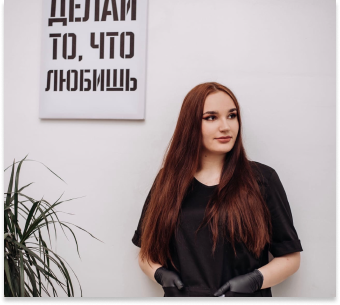
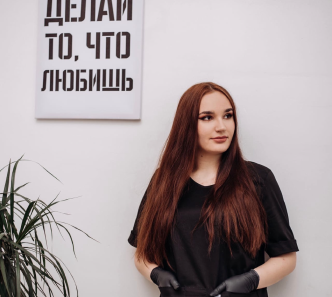
переделал 2 секции

diff --git a/dist/css/style.min.css b/dist/css/style.min.css
@@ -1,1 +1,1 @@
-*{font-family:"Balsamiq Sans",cursive;font-family:"Roboto Mono",monospace;box-sizing:border-box;margin:0;padding:0;border:0}.container{max-width:950px;margin:0 auto}.header{width:100%;min-height:85px;background-color:#e9e9e9}.header__list{padding:3px 10px;position:relative;width:100%;height:85px;display:grid;grid-template-columns:repeat(3,auto);-moz-column-gap:33px;column-gap:33px;align-items:center;justify-content:center}.header__item{position:relative;display:flex;justify-content:center;align-items:center;font-weight:400;font-size:25px}.header__item span{font-weight:700}.header__link{display:block;text-decoration:none;color:gray;text-shadow:1px 1px 1px red}.header__img{margin-right:15px}@media(max-width:855px){.header__item{font-size:20px}}@media(max-width:713px){.header__item{font-size:18px}}@media(max-width:657px){.header__item{font-size:16px}}@media(max-width:600px){.header__item{font-size:14px}}@media(max-width:600px){.header__list{display:grid;grid-template-columns:repeat(2,200px)}.header__item{font-size:17px}.header__img{margin-right:8px}#second{grid-row-start:3;margin-left:-20px;grid-column-start:1;grid-column-end:3}}@media(max-width:445px){.header__list{display:grid;grid-template-columns:repeat(2,200px)}.header__item{font-size:14px}.header__img{margin-right:8px}#second{grid-row-start:3;margin-left:-20px;grid-column-start:1;grid-column-end:3}}@media(max-width:405px){.header__list{display:grid;grid-template-columns:repeat(2,155px)}.header__item{font-size:15px}.header__img{display:none;margin-right:8px}#second{grid-row-start:3;margin-left:-20px;grid-column-start:1;grid-column-end:3}}@media(max-width:345px){.header__list{display:grid;grid-template-columns:repeat(2,130px)}.header__item{font-size:15px}.header__img{display:none;margin-right:8px}}.glav{min-height:300px}.glav__block{display:grid;grid-template-columns:615px 330px;grid-template-rows:60px 240px;background-color:#000;height:297px}.glav__text{display:flex;flex-direction:column;align-items:center;justify-content:center;color:#fff;grid-column-start:1}.glav__links{margin-left:10px;margin-top:5px}.glav__link{margin-right:5px}.glav__img{grid-column-start:2;grid-column-end:3;grid-row-start:1;grid-row-end:3;border:none}.glav__title{font-size:30px;margin-left:65px}.glav__subtitle{margin-top:33px;font-size:33px;text-align:center}
+*{font-family:"Balsamiq Sans",cursive;font-family:"Roboto Mono",monospace;box-sizing:border-box;margin:0;padding:0;border:0}.container{max-width:950px;margin:0 auto}.header{width:100%;min-height:85px;background-color:#e9e9e9}.header__list{padding:3px 10px;position:relative;width:100%;height:85px;display:grid;grid-template-columns:repeat(3,auto);-moz-column-gap:33px;column-gap:33px;align-items:center;justify-content:center}.header__item{position:relative;display:flex;justify-content:center;align-items:center;font-weight:400;font-size:25px}.header__item span{font-weight:700}.header__link{display:block;text-decoration:none;color:gray;text-shadow:1px 1px 1px red}.header__img{margin-right:15px}.glav{min-height:300px}.glav__wrapper{width:100%;margin:0 auto;display:grid;grid-template-columns:620px 330px;height:297px;justify-content:center}.glav__mainImg{width:100%;height:100%;-o-object-fit:cover;object-fit:cover}.glav__block{background-color:#000;height:297px}.glav__links{margin-left:10px;margin-top:5px}.glav__link{margin-right:10px}.glav__text{display:flex;flex-direction:column;color:#fff;align-items:center;justify-content:center;height:76%}.glav__title{font-size:30px;margin-left:65px}.glav__subtitle{font-size:32px;margin-top:20px;text-align:center}@media(max-width:932px){.glav__wrapper{grid-template-columns:550px 330px}}@media(max-width:855px){.glav__wrapper{grid-template-columns:470px 330px}}@media(max-width:855px){.header__item{font-size:20px}}@media(max-width:713px){.header__item{font-size:18px}}@media(max-width:657px){.header__item{font-size:16px}}@media(max-width:600px){.header__item{font-size:14px}}@media(max-width:600px){.header__list{display:grid;grid-template-columns:repeat(2,200px)}.header__item{font-size:17px}.header__img{margin-right:8px}#second{grid-row-start:3;margin-left:-20px;grid-column-start:1;grid-column-end:3}}@media(max-width:445px){.header__list{display:grid;grid-template-columns:repeat(2,200px)}.header__item{font-size:14px}.header__img{margin-right:8px}#second{grid-row-start:3;margin-left:-20px;grid-column-start:1;grid-column-end:3}}@media(max-width:405px){.header__list{display:grid;grid-template-columns:repeat(2,155px)}.header__item{font-size:15px}.header__img{display:none;margin-right:8px}#second{grid-row-start:3;margin-left:-20px;grid-column-start:1;grid-column-end:3}}@media(max-width:345px){.header__list{display:grid;grid-template-columns:repeat(2,130px)}.header__item{font-size:15px}.header__img{display:none;margin-right:8px}}

diff --git a/dist/index.html b/dist/index.html
@@ -1,1 +1,1 @@
-<!DOCTYPE html><html lang="en"><head><meta charset="UTF-8"><meta http-equiv="X-UA-Compatible" content="IE=edge"><meta name="viewport" content="width=device-width,initial-scale=1"><title>Шугаринг, ваксинг, полимер</title><link rel="preconnect" href="https://fonts.googleapis.com"><link rel="preconnect" href="https://fonts.gstatic.com" crossorigin><link href="https://fonts.googleapis.com/css2?family=Balsamiq+Sans&family=Roboto+Mono:wght@400;500&display=swap" rel="stylesheet"><link rel="stylesheet" href="css/style.min.css"></head><body><header class="header"><div class="container"><div class="header__menu"><ul class="header__list"><li class="header__item"><span>Бочарова Анастасия</span></li><li id="second" class="header__item"><a href="tel:89207671627" class="header__link">8-920-767-16-27</a></li><li class="header__item"><img src="img/глобус 1.png" alt="глобус" class="header__img">местоположение</li></ul></div></div></header><section class="glav"><div class="container"><div class="glav__block"><div class="glav__links"><a href="#" class="glav__link"><img src="img/icons/инстаграм 1.svg" alt="inst" class="glav__img"></a><a href="#" class="glav__link"><img src="img/icons/ветс ап 1.svg" alt="" class="glav__img"></a><a href="#" class="glav__link"><img src="img/icons/вк 1.svg" alt="" class="glav__img"></a><a href="#" class="glav__link"><img src="img/icons/одноклассники 1.svg" alt="" class="glav__img"></a></div><div class="glav__text"><div class="glav__title">С индивидуальным подходом к каждому клиенту!</div><div class="glav__subtitle">шугаринг , ваксинг , полимер</div></div><div class="glav__img"><img src="img/nastya.png" alt=""></div></div></div></section><script src="js/script.js"></script></body></html>
+<!DOCTYPE html><html lang="ru"><head><meta charset="UTF-8"><meta http-equiv="X-UA-Compatible" content="IE=edge"><meta name="viewport" content="width=device-width,initial-scale=1"><title>Шугаринг, ваксинг, полимер</title><link rel="preconnect" href="https://fonts.googleapis.com"><link rel="preconnect" href="https://fonts.gstatic.com" crossorigin><link href="https://fonts.googleapis.com/css2?family=Balsamiq+Sans&family=Roboto+Mono:wght@400;500&display=swap" rel="stylesheet"><link rel="stylesheet" href="css/style.min.css"></head><body><header class="header"><div class="container"><div class="header__menu"><ul class="header__list"><li class="header__item"><span>Бочарова Анастасия</span></li><li id="second" class="header__item"><a href="tel:89207671627" class="header__link">8-920-767-16-27</a></li><li class="header__item"><img src="img/глобус 1.png" alt="глобус" class="header__img">местоположение</li></ul></div></div></header><section class="glav"><div class="container"><div class="glav__wrapper"><div class="glav__block"><div class="glav__links"><a href="#" class="glav__link"><img src="img/icons/инстаграм 1.svg" alt="inst" class="glav__img"></a><a href="#" class="glav__link"><img src="img/icons/ветс ап 1.svg" alt="whatsup" class="glav__img"></a><a href="#" class="glav__link"><img src="img/icons/вк 1.svg" alt="vk" class="glav__img"></a><a href="#" class="glav__link"><img src="img/icons/одноклассники 1.svg" alt="odnoklassniki" class="glav__img"></a></div><div class="glav__text"><div class="glav__title">С индивидуальным подходом к каждому клиенту!</div><div class="glav__subtitle">шугаринг , ваксинг , полимер</div></div></div><div class="glav__mainImg"><img src="img/nastya.png" alt=""></div></div></div></section><script src="js/script.js"></script></body></html>

diff --git a/src/index.html b/src/index.html
@@ -1,5 +1,5 @@
 <!DOCTYPE html>
-<html lang="en">
+<html lang="ru">
 <head>
    <meta charset="UTF-8">
    <meta http-equiv="X-UA-Compatible" content="IE=edge">
@@ -26,20 +26,20 @@
 
    <section class="glav">
       <div class="container">
-         <div class="glav__block">
-            <div class="glav__links">
-               <a href="#" class="glav__link"><img src="img/icons/инстаграм 1.svg" alt="inst" class="glav__img"></a>
-               <a href="#" class="glav__link"><img src="img/icons/ветс ап 1.svg" alt="" class="glav__img"></a>
-               <a href="#" class="glav__link"><img src="img/icons/вк 1.svg" alt="" class="glav__img"></a>
-               <a href="#" class="glav__link"><img src="img/icons/одноклассники 1.svg" alt="" class="glav__img"></a>
+         <div class="glav__wrapper">
+            <div class="glav__block">
+               <div class="glav__links">
+                  <a href="#" class="glav__link"><img src="img/icons/инстаграм 1.svg" alt="inst" class="glav__img"></a>
+                  <a href="#" class="glav__link"><img src="img/icons/ветс ап 1.svg" alt="whatsup"  class="glav__img"></img></a>
+                  <a href="#" class="glav__link"><img src="img/icons/вк 1.svg" alt="vk"  class="glav__img"></img></a>
+                  <a href="#" class="glav__link"><img src="img/icons/одноклассники 1.svg" alt="odnoklassniki"  class="glav__img"></img></a>
+               </div>
+               <div class="glav__text">
+                  <div class="glav__title">С индивидуальным подходом к каждому клиенту!</div>
+                  <div class="glav__subtitle">шугаринг , ваксинг , полимер</div>
+               </div>
             </div>
-            <div class="glav__text">
-               <div class="glav__title">С индивидуальным подходом к каждому клиенту!</div>
-               <div class="glav__subtitle">шугаринг , ваксинг , полимер</div>
-            </div>
-            <div class="glav__img">
-               <img src="img/nastya.png" alt="">
-            </div>
+            <div class="glav__mainImg"><img src="img/nastya.png" alt=""></div>
          </div>
       </div>
    </section>

diff --git a/src/sass/blocks/_glav.scss b/src/sass/blocks/_glav.scss
@@ -1,43 +1,44 @@
 .glav {
    min-height: 300px;
-   &__block {
+   &__wrapper {
+      width: 100%;
+      margin: 0 auto;
       display: grid;
-      grid-template-columns: 615px 330px;
-      grid-template-rows: 60px 240px;
+      grid-template-columns: 620px 330px;
+      height: 297px;
+      justify-content: center;
+   }
+   &__mainImg {
+      width: 100%;
+      height: 100%;
+      object-fit: cover;
+   }
+   &__block {
       background-color: #000;
       height: 297px;
-   }
-   &__text {
-      display: flex;
-      flex-direction: column;
-      align-items: center;
-      justify-content: center;
-      color: #fff;
-      // text-align: center;
-      grid-column-start: 1;
-      
    }
    &__links {
       margin-left: 10px;
       margin-top: 5px;
    }
    &__link {
-      margin-right: 5px;
+      margin-right: 10px;
    }
-   &__img {
-      grid-column-start: 2;
-      grid-column-end: 3;
-      grid-row-start: 1;
-      grid-row-end: 3;
-      border: none;
+   &__text {
+      display: flex;
+      flex-direction: column;
+      color: #fff;
+      align-items: center;
+      justify-content: center;
+      height: 76%;
    }
    &__title {
       font-size: 30px;
       margin-left: 65px;
    }
    &__subtitle {
-      margin-top: 33px;
-      font-size: 33px;
+      font-size: 32px;
+      margin-top: 20px;
       text-align: center;
    }
 }

diff --git a/src/sass/media/_glavMedia.scss b/src/sass/media/_glavMedia.scss
@@ -1,0 +1,14 @@
+@media (max-width: 932px) {
+   .glav {
+      &__wrapper {
+         grid-template-columns: 550px 330px;
+      }
+   }
+}
+@media (max-width: 855px) {
+   .glav {
+      &__wrapper {
+         grid-template-columns: 470px 330px;
+      }
+   }
+}

diff --git a/src/sass/style.scss b/src/sass/style.scss
@@ -13,5 +13,6 @@
 }
 
 @import 'blocks/header';
-@import 'media/headerMedia';
 @import 'blocks/glav';
+@import 'media/glavMedia';
+@import 'media/headerMedia';
